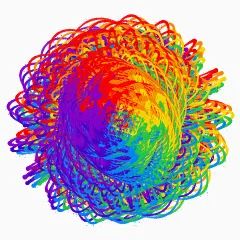
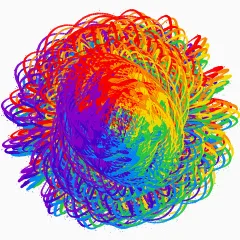
feat: ballistisk strålelagg — malingen lander foran bøtta, ikke rett under
Malingen forlater utløpet med bøttas horisontalfart og bruker endelig tid
på å falle til lerretet: calcStreamAdvection i physics.ts (utløpshøyde
0,10 m + svingbue-løft, falltid forkortet av Torricelli-utløpsfarten —
full bøtte spruter raskt og lander nesten rett under; en sultende/seig
stråle driver lenger). Effekten er rng-fri, bakes inn i lagrede
punktkoordinater (WYSIWYG-eksporten replayer den gratis) og gir mønsteret
en fysisk ærlig, fartsavhengig sveip-vridning. Riggen viser bøtta på ekte
posisjon, så man ser malingen lande foran den. Baneforhåndsvisningen
bruker samme forskyvning og viser nå hvor MALINGEN havner.

QA: headless montasje (Default + 8 presets) inspisert — alt fortsatt
runde, lerretsfyllende rosetter; punkttall ±0,1 % (maks Kaotisk ≈778k);
samme frø → byte-identisk PNG, ulikt frø → ulik. tsc og next build grønne.
Alle 8 preset-miniatyrer regenerert.

diff --git a/src/components/PaintCanvas.tsx b/src/components/PaintCanvas.tsx
@@ -6,7 +6,7 @@ import {
   calcPosition, calcVelocity, isSimulationDone, prepareHarmonograph,
   calcPaintFlowRate, calcDropRadius, calcDropOpacity, calcBobHeight,
   calcCentripetalAccel, shouldSplash, calcPaintLevel, calcCanvasOffset,
-  calcStreamBreakup, calcRopeCoiling,
+  calcStreamBreakup, calcRopeCoiling, calcStreamAdvection,
 } from '@/lib/physics';
 import { drawThickStroke, drawSplashSplat, drawPaperTexture, getSymmetryTransforms, copySeed, mulberry32, Rng, SPLASH_GRAVITY, splashDrag } from '@/lib/painter';
 
@@ -353,8 +353,12 @@ export default function PaintCanvas({
         const flowRate = calcPaintFlowRate(centripetal, ps.viscosity, paintLevel);
         const normFlow = Math.min(flowRate / 5, 1);
 
-        const cx = 0.5 + pos.x * SCALE + co.ox;
-        const cy = 0.5 + pos.y * SCALE + co.oy;
+        // Ballistic stream lag: the falling paint keeps the bucket's horizontal
+        // velocity, so it lands ahead of the bucket — never straight below it.
+        // rng-FREE, baked into the stored point coordinates (WYSIWYG for free).
+        const adv = calcStreamAdvection(vel.vx, vel.vy, zHeight, s.pendulum.stringLength, flowRate);
+        const cx = 0.5 + (pos.x + adv.dx) * SCALE + co.ox;
+        const cy = 0.5 + (pos.y + adv.dy) * SCALE + co.oy;
 
         for (let h = 0; h < ps.holes.length; h++) {
           const hole = ps.holes[h];
@@ -633,15 +637,22 @@ export default function PaintCanvas({
     const prepared = prepareHarmonograph(settings.pendulum, previewSrc, settings.throwMode, settings.throwSpeed);
     const pts: string[] = [];
     const PREVIEW_T = 22; // seconds of simulated swing — enough to read the pattern's character
+    // The painted line lands ahead of the bucket (ballistic stream lag) — include
+    // it so the preview shows where the PAINT goes, not where the bucket goes.
+    // Full-bucket exit speed is a fair approximation for the opening loops.
+    const exitSpeed = calcPaintFlowRate(0, settings.paint.viscosity, 1);
     for (let t = 0; t <= PREVIEW_T; t += 0.04) {
       const p = calcPosition(t, prepared);
-      pts.push(`${((0.5 + p.x * SCALE) * canvasSize).toFixed(1)},${((0.5 + p.y * SCALE) * canvasSize).toFixed(1)}`);
+      const v = calcVelocity(t, prepared);
+      const zh = calcBobHeight(p.x, p.y, settings.pendulum.stringLength);
+      const adv = calcStreamAdvection(v.vx, v.vy, zh, settings.pendulum.stringLength, exitSpeed);
+      pts.push(`${((0.5 + (p.x + adv.dx) * SCALE) * canvasSize).toFixed(1)},${((0.5 + (p.y + adv.dy) * SCALE) * canvasSize).toFixed(1)}`);
     }
     // First loops drawn stronger than the rest: start point and direction read clearly.
     const split = Math.floor(pts.length * 0.3);
     return { head: pts.slice(0, split + 1).join(' '), tail: pts.slice(split).join(' ') };
     // eslint-disable-next-line react-hooks/exhaustive-deps
-  }, [showPathPreview, previewSrc.x, previewSrc.y, settings.pendulum, settings.throwMode, settings.throwSpeed, canvasSize]);
+  }, [showPathPreview, previewSrc.x, previewSrc.y, settings.pendulum, settings.throwMode, settings.throwSpeed, settings.paint.viscosity, canvasSize]);
 
   return (
     <div ref={boxRef} className="flex-1 flex items-center justify-center w-full h-full relative">

diff --git a/src/lib/physics.ts b/src/lib/physics.ts
@@ -268,6 +268,36 @@ export function calcRopeCoiling(
   return { dx: r * Math.cos(a), dy: r * Math.sin(a) };
 }
 
+// ── Ballistic stream lag ──
+// The paint leaves the outlet WITH the bucket's horizontal velocity and needs a
+// finite time to fall to the canvas, so it lands AHEAD of the bucket along the
+// direction of motion — never directly beneath the hole. The fall is shortened
+// by the stream's downward Torricelli exit speed (a full bucket squirts fast and
+// lands almost beneath the hole; a starving stream drifts further) and lengthened
+// when the swing arc lifts the bucket. Deliberately rng-FREE (pure function of
+// state) and baked into the stored point coordinates by PaintCanvas, so the
+// WYSIWYG export replays it for free and the rng call order is untouched.
+/** The bucket outlet hangs this far above the canvas (m) at rest. */
+const STREAM_GAP = 0.1;
+/** Cap on the extra fall height from the swing arc (m) — real painters keep the
+ *  rig low; without a cap wide throws on long strings overshoot the canvas. */
+const SWING_RISE_MAX = 0.25;
+
+/** Landing offset of the falling stream (physics units — caller applies SCALE).
+ *  `zHeight` is calcBobHeight's normalized rise (r²/L); the real rise is r²/2L. */
+export function calcStreamAdvection(
+  vx: number,
+  vy: number,
+  zHeight: number,
+  stringLength: number,
+  exitSpeed: number,
+): { dx: number; dy: number } {
+  const h = STREAM_GAP + Math.min(zHeight * stringLength * 0.5, SWING_RISE_MAX);
+  // h = v₀t + ½gt² → t = (√(v₀² + 2gh) − v₀)/g, v₀ = downward exit speed.
+  const tFall = (Math.sqrt(exitSpeed * exitSpeed + 2 * G * h) - exitSpeed) / G;
+  return { dx: vx * tFall, dy: vy * tFall };
+}
+
 export function calcCentripetalAccel(vx: number, vy: number, prevVx: number, prevVy: number, dt: number): number {
   const ax = (vx - prevVx) / dt;
   const ay = (vy - prevVy) / dt;

diff --git a/CLAUDE.md b/CLAUDE.md
@@ -59,6 +59,17 @@ requires the initial perpendicular velocity to be on the order of `ω·r` (a fac
   and pen-up gaps (per-hole state machine, gaps widen as starve→1). Pen-up segments advance the
   stroke anchor and store NO point — the WYSIWYG export replays identically for free. This turns
   the flat solid fields in the dense center into granular drip texture (see the changed presets).
+- **Ballistic stream lag (2026-07):** the falling paint keeps the bucket's horizontal velocity,
+  so it lands AHEAD of the bucket — never straight below the hole. `calcStreamAdvection(vx, vy,
+  zHeight, L, exitSpeed)` in `physics.ts`: fall height = `STREAM_GAP` (0.10 m outlet height) +
+  swing-arc rise (`zHeight·L/2`, capped 0.25 m); fall time shortened by the downward Torricelli
+  exit speed (full bucket squirts fast → lands almost beneath the hole; a starving/viscous stream
+  drifts further). Applied once per step in PaintCanvas BEFORE the hole loop
+  (`cx = 0.5 + (pos.x + adv.dx)·SCALE + co.ox`), rng-FREE and baked into stored point
+  coordinates → WYSIWYG export replays it for free, rng call order untouched. Visible as a gentle
+  velocity-dependent sweep/twist of the whole pattern; the rig bob deliberately stays at the TRUE
+  bob position, so live you see the paint land ahead of the bucket. The orbit path preview applies
+  the same advection (full-bucket exit-speed approximation) so it shows where the PAINT goes.
 - `calcBobHeight` must depend on L (longer string → smaller swing angle → flatter arc → less spread).
 
 ## 3. WYSIWYG export — the core invariant (READ BEFORE TOUCHING `painter.ts`)
@@ -200,6 +211,15 @@ running/paused. Display-only — zero WYSIWYG/determinism impact (2026-07 QA bas
 montage of 9 renders round & canvas-filling, same-seed/diff-seed determinism PASS, point counts
 unchanged, max Kaotisk ≈778k). Gotcha: compute the preview from the `settings` prop, NOT
 `sRef.current` — the ref updates in an effect after render, so it lags one render behind.
+· ballistic stream lag (2026-07, see §2): the paint lands ahead of the bucket, not beneath it.
+Affects EVERY preset (the effect is always on), so there is no byte-identical baseline — QA is
+before/after montage comparison. Verified 2026-07: all 9 renders still round & canvas-filling,
+point counts ±0.1% (max Kaotisk ≈778k), same-seed/diff-seed determinism PASS; ALL 8 picker
+thumbnails regenerated in the same pass. **The headless QA sim must apply the advection
+identically**: once per step, before the hole loop, `cx = 0.5 + (pos.x + adv.dx)·SCALE + co.ox`
+with `exitSpeed = flowRate` — a mismatch shifts every stroke. The orbit preview uses
+`calcPaintFlowRate(0, viscosity, 1)` as its exit-speed approximation; keep that in sync if the
+flow model changes.
 
 Remaining:
 1. **i18n** (English toggle) to widen reach.
